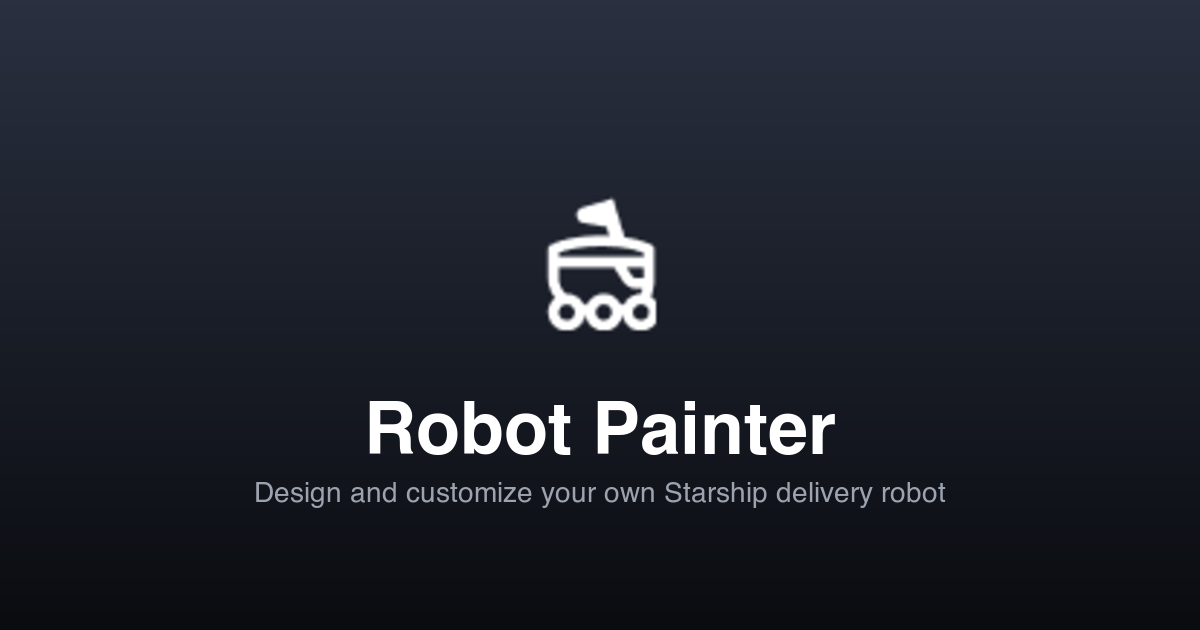
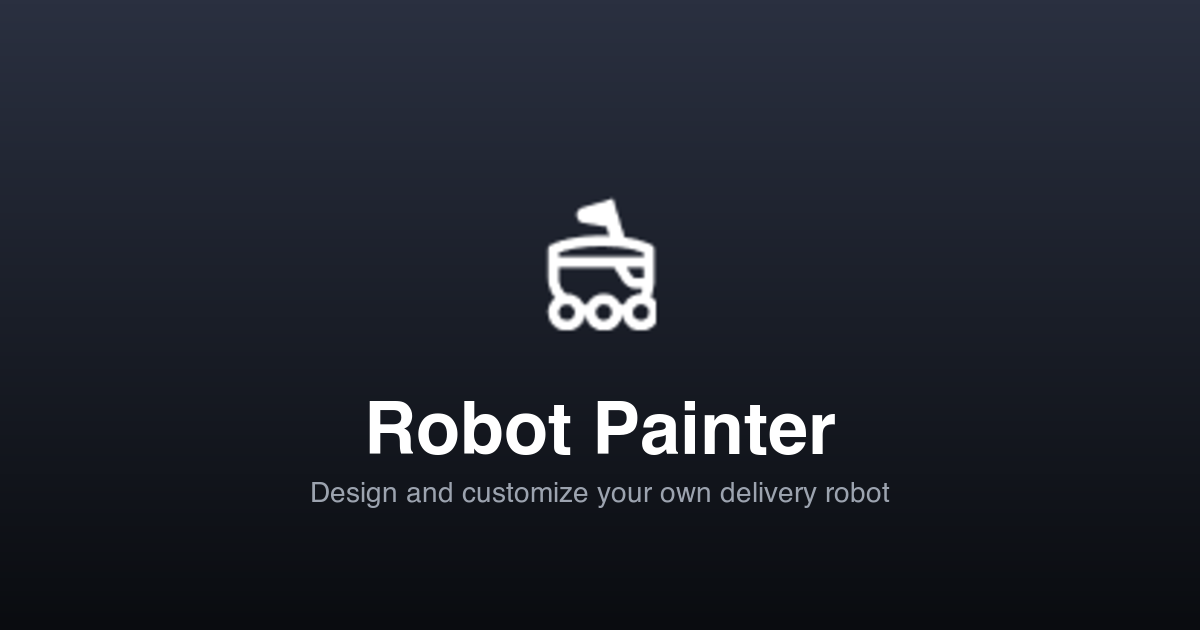
fix: remove Starship branding from copy

Changed region(s): [[0.2158, 0.754, 0.8017, 0.8143]]

diff --git a/index.html b/index.html
@@ -7,7 +7,7 @@
     <!-- Primary Meta Tags -->
     <title>Robot Painter - Design Custom Starship Robot Skins</title>
     <meta name="title" content="Robot Painter - Design Custom Starship Robot Skins" />
-    <meta name="description" content="Design and customize your own Starship delivery robot. Add text, images, shapes, and colors to create unique robot skins." />
+    <meta name="description" content="Design and customize your own delivery robot. Add text, images, shapes, and colors to create unique robot skins." />
     <meta name="author" content="Robot Painter" />
 
     <!-- Theme -->
@@ -23,7 +23,7 @@
     <!-- Open Graph / Facebook -->
     <meta property="og:type" content="website" />
     <meta property="og:title" content="Robot Painter - Design Custom Starship Robot Skins" />
-    <meta property="og:description" content="Design and customize your own Starship delivery robot. Add text, images, shapes, and colors to create unique robot skins." />
+    <meta property="og:description" content="Design and customize your own delivery robot. Add text, images, shapes, and colors to create unique robot skins." />
     <meta property="og:image" content="/og-image.png" />
     <meta property="og:image:width" content="1200" />
     <meta property="og:image:height" content="630" />
@@ -31,7 +31,7 @@
     <!-- Twitter -->
     <meta name="twitter:card" content="summary_large_image" />
     <meta name="twitter:title" content="Robot Painter - Design Custom Starship Robot Skins" />
-    <meta name="twitter:description" content="Design and customize your own Starship delivery robot. Add text, images, shapes, and colors to create unique robot skins." />
+    <meta name="twitter:description" content="Design and customize your own delivery robot. Add text, images, shapes, and colors to create unique robot skins." />
     <meta name="twitter:image" content="/og-image.png" />
 
     <!-- PWA -->

diff --git a/src/routes/index.tsx b/src/routes/index.tsx
@@ -14,7 +14,7 @@ function LandingPage() {
 						Robot Painter
 					</h1>
 					<p className="text-lg text-gray-300">
-						Design and customize your own Starship delivery robot. Add text,
+						Design and customize your own delivery robot. Add text,
 						images, shapes, and colors to create unique robot skins.
 					</p>
 				</div>
